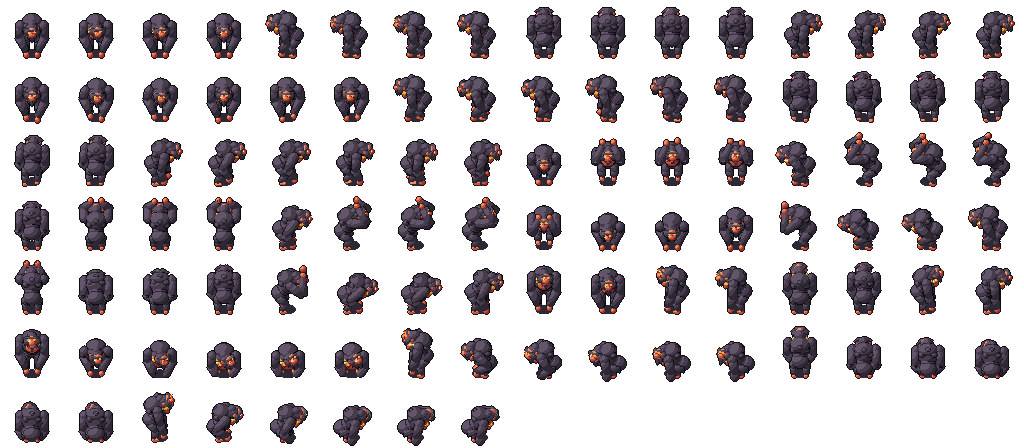
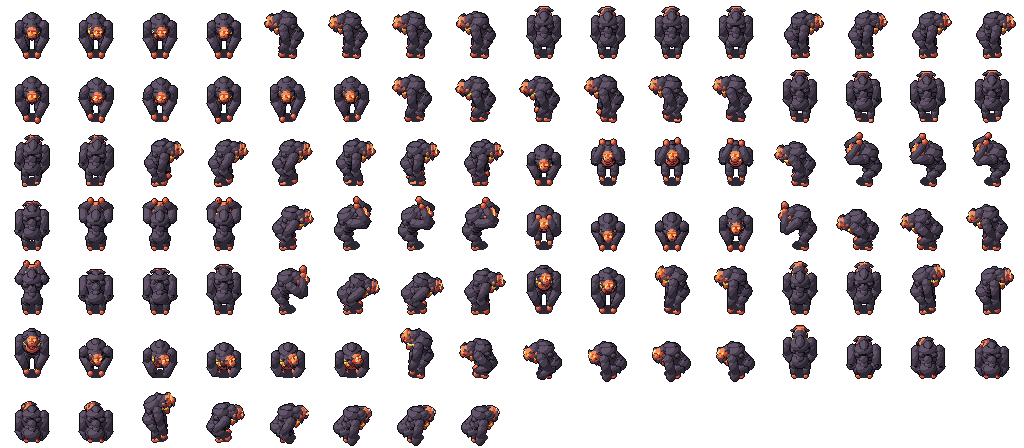
Toán tu tiên: Bạch Viên bản trắng - mặt da sẫm, tay chân trần, lông ba tông xám lạnh, vệt yên sẫm dọc lưng

diff --git a/art/src/monsters_d/bach_vien.py b/art/src/monsters_d/bach_vien.py
@@ -49,15 +49,26 @@ REST = rest_table(BONES)
 
 def build():
     use_collection("COL_bach_vien")
-    fur = material("MAT_bv_fur", (0.60, 0.58, 0.64), (0.27, 0.24, 0.30), ramp=("bone", "hair"))
+    # White fur in three clearly stepped tones: a cool grey shadow (bone #9894a2), the white
+    # (#cfcbd3) and a highlight only on the planes that face the key light. The tone bands
+    # are widened for the white look only (kit_shadow/kit_light_<variant>, see scene.py).
+    fur = material("MAT_bv_fur", (0.81, 0.80, 0.83), (0.27, 0.24, 0.30), ramp=("bone", "hair"))
     # the limbs carry their own (same-coloured) material so the kit draws an inner line
-    # where an arm crosses the body
-    limb = material("MAT_bv_fur_limb", (0.60, 0.58, 0.64), (0.27, 0.24, 0.30), ramp=("bone", "hair"))
-    fur_sh = material("MAT_bv_fur_shade", (0.62, 0.60, 0.66), (0.18, 0.16, 0.20), ramp=("bone", "hair"))
-    skin = material("MAT_bv_skin", (0.37, 0.39, 0.44), (0.58, 0.19, 0.16), ramp=("stone", "red"))
-    skin_lt = material("MAT_bv_skin_light", (0.53, 0.56, 0.60), (0.78, 0.33, 0.23), ramp=("stone", "red"))
+    # where an arm or a thigh crosses the body
+    limb = material("MAT_bv_fur_limb", (0.81, 0.80, 0.83), (0.27, 0.24, 0.30), ramp=("bone", "hair"))
+    for m in (fur, limb):
+        m["kit_shadow_base"] = 0.42
+        m["kit_light_base"] = 0.80
+    fur_sh = material("MAT_bv_fur_shade", (0.60, 0.58, 0.64), (0.18, 0.16, 0.20), ramp=("bone", "hair"))
+    saddle = material("MAT_bv_saddle", (0.35, 0.35, 0.40), (0.11, 0.10, 0.13), ramp=("bone", "hair"))
+    # bare dark grey-brown skin: face, brow ridge, chest, hands and feet
+    skin = material("MAT_bv_skin", (0.28, 0.22, 0.18), (0.58, 0.19, 0.16), ramp=("earth", "red"))
+    skin_lt = material("MAT_bv_skin_light", (0.42, 0.35, 0.28), (0.78, 0.33, 0.23), ramp=("earth", "red"))
+    for m in (skin, skin_lt):                 # the bare skin stays dark: hardly any light tone
+        m["kit_light_base"] = 0.95
     brow = material("MAT_bv_brow", (0.97, 0.96, 0.97), (0.40, 0.36, 0.43), ramp=("bone", "hair"))
     eye = material("MAT_bv_eye", (1.0, 0.89, 0.48), (1.0, 0.68, 0.23), emit=5.0, glow=("holy", "flame"))
+    eye["kit_halo"] = 0                       # a clean gold pixel, no smear over the dark face
     scar = material("MAT_bv_scar", (0.36, 0.10, 0.11), (0.93, 0.87, 0.70), ramp=("red", "paper"))
     mouth = material("MAT_bv_mouth", (0.11, 0.10, 0.13), (0.11, 0.10, 0.13), ramp="hair")
     bead = material("MAT_bv_bead", (0.34, 0.20, 0.13), (0.90, 0.72, 0.23), ramp=("wood", "gold"))
@@ -72,7 +83,12 @@ def build():
         ball("bv_hump", (0.17, 0.15, 0.10), (0, 0.0, 0.74), fur),
         ball("bv_pec", (0.115, 0.05, 0.10), (0, -0.20, 0.57), skin),
         *[ball(f"bv_shag{k}", (0.06, 0.06, 0.045), (x, 0.08, z), fur_sh, seg=8, rings=5)
-          for k, (x, z) in enumerate(((0.11, 0.68), (-0.11, 0.68), (0.0, 0.78)))])
+          for k, (x, z) in enumerate(((0.11, 0.68), (-0.11, 0.68)))],
+        # the darker grey saddle down the back: over the hump and down the slope
+        ball("bv_saddle1", (0.075, 0.12, 0.03), (0, 0.0, 0.835), saddle, rot=(-12, 0, 0), seg=12, rings=6),
+        ball("bv_saddle2", (0.07, 0.07, 0.03), (0, 0.10, 0.765), saddle, rot=(-50, 0, 0), seg=12, rings=6))
+    att(arm, "pelvis", ball("bv_saddle3", (0.07, 0.08, 0.03), (0, 0.13, 0.62), saddle, rot=(-55, 0, 0), seg=12, rings=6),
+        ball("bv_saddle4", (0.065, 0.06, 0.03), (0, 0.17, 0.535), saddle, rot=(-30, 0, 0), seg=12, rings=6))
     beads = []
     for k in range(11):
         a = math.tau * k / 11 - math.pi / 2
@@ -86,22 +102,23 @@ def build():
     att(arm, "head",
         ball("bv_skull", (0.11, 0.10, 0.10), (0, HY, HZ), fur),
         ball("bv_crest", (0.075, 0.08, 0.06), (0, HY + 0.04, HZ + 0.075), fur, seg=10, rings=6),
-        ball("bv_face", (0.09, 0.06, 0.085), (0, HY - 0.08, HZ - 0.01), skin, seg=12, rings=8),
-        ball("bv_muzzle", (0.065, 0.05, 0.048), (0, HY - 0.125, HZ - 0.055), skin_lt, seg=10, rings=6),
-        box("bv_brow", (0.16, 0.045, 0.032), (0, HY - 0.115, HZ + 0.04), brow, bevel=0.01),
-        aim("bv_browl", brow, (0.06, HY - 0.11, HZ + 0.045), (0.17, HY - 0.05, HZ + 0.02), 0.024, 0.0, seg=5),
-        aim("bv_browr", brow, (-0.06, HY - 0.11, HZ + 0.045), (-0.17, HY - 0.05, HZ + 0.02), 0.024, 0.0, seg=5),
-        ball("bv_eyel", (0.024, 0.012, 0.019), (0.037, HY - 0.125, HZ + 0.012), eye, seg=8, rings=5),
-        ball("bv_eyer", (0.024, 0.012, 0.019), (-0.037, HY - 0.125, HZ + 0.012), eye, seg=8, rings=5),
-        box("bv_scar", (0.013, 0.012, 0.09), (-0.04, HY - 0.13, HZ + 0.012), scar, rot=(0, 28, 0)),
-        box("bv_nostril", (0.036, 0.012, 0.01), (0, HY - 0.155, HZ - 0.04), mouth),
+        # a big bare face wrapping round the front of the head (it shows in profile too)
+        ball("bv_face", (0.10, 0.08, 0.095), (0, HY - 0.075, HZ - 0.01), skin, seg=14, rings=8),
+        ball("bv_muzzle", (0.07, 0.06, 0.05), (0, HY - 0.135, HZ - 0.06), skin_lt, seg=10, rings=6),
+        box("bv_brow", (0.17, 0.05, 0.04), (0, HY - 0.125, HZ + 0.045), skin, bevel=0.012),
+        aim("bv_browl", brow, (0.07, HY - 0.11, HZ + 0.06), (0.17, HY - 0.05, HZ + 0.04), 0.02, 0.0, seg=5),
+        aim("bv_browr", brow, (-0.07, HY - 0.11, HZ + 0.06), (-0.17, HY - 0.05, HZ + 0.04), 0.02, 0.0, seg=5),
+        ball("bv_eyel", (0.027, 0.016, 0.022), (0.045, HY - 0.145, HZ + 0.012), eye, seg=8, rings=5),
+        ball("bv_eyer", (0.027, 0.016, 0.022), (-0.045, HY - 0.145, HZ + 0.012), eye, seg=8, rings=5),
+        box("bv_scar", (0.013, 0.012, 0.09), (-0.047, HY - 0.155, HZ + 0.012), scar, rot=(0, 28, 0)),
+        box("bv_nostril", (0.036, 0.012, 0.01), (0, HY - 0.19, HZ - 0.045), mouth),
         ball("bv_earl", (0.025, 0.03, 0.035), (0.11, HY, HZ), skin, seg=8, rings=5),
         ball("bv_earr", (0.025, 0.03, 0.035), (-0.11, HY, HZ), skin, seg=8, rings=5),
-        ball("bv_cheekl", (0.05, 0.05, 0.06), (0.09, HY - 0.05, HZ - 0.04), brow, seg=8, rings=5),
-        ball("bv_cheekr", (0.05, 0.05, 0.06), (-0.09, HY - 0.05, HZ - 0.04), brow, seg=8, rings=5))
+        ball("bv_cheekl", (0.04, 0.04, 0.05), (0.095, HY - 0.01, HZ - 0.045), brow, seg=8, rings=5),
+        ball("bv_cheekr", (0.04, 0.04, 0.05), (-0.095, HY - 0.01, HZ - 0.045), brow, seg=8, rings=5))
     att(arm, "jaw", ball("bv_jaw", (0.055, 0.045, 0.03), (0, HY - 0.095, HZ - 0.09), skin, seg=10, rings=6),
-        box("bv_mouth", (0.065, 0.012, 0.012), (0, HY - 0.15, HZ - 0.08), mouth),
-        aim("bv_beard", brow, (0, HY - 0.10, HZ - 0.10), (0, HY - 0.12, HZ - 0.22), 0.05, 0.0, seg=8),
+        box("bv_mouth", (0.065, 0.012, 0.012), (0, HY - 0.17, HZ - 0.085), mouth),
+        aim("bv_beard", brow, (0, HY - 0.09, HZ - 0.10), (0, HY - 0.10, HZ - 0.19), 0.045, 0.0, seg=8),
         aim("bv_beardl", brow, (0.04, HY - 0.08, HZ - 0.09), (0.06, HY - 0.08, HZ - 0.18), 0.032, 0.0, seg=6),
         aim("bv_beardr", brow, (-0.04, HY - 0.08, HZ - 0.09), (-0.06, HY - 0.08, HZ - 0.18), 0.032, 0.0, seg=6))
 

diff --git a/art/src/monsters_d/scene.py b/art/src/monsters_d/scene.py
@@ -106,6 +106,12 @@ def main():
     hook = on_frame if any(k.startswith("shift_") for k in arm.keys()) else None
     for variant, out_id, label in (("base", a.id, name_vi), ("di", f"{a.id}_di", f"{name_vi} Dị Chủng")):
         rig.apply_variant(variant)
+        for m in bpy.data.materials:          # tone bands that differ per look
+            for key in ("kit_shadow", "kit_light"):
+                if f"{key}_{variant}" in m:
+                    m[key] = m[f"{key}_{variant}"]
+                elif (f"{key}_base" in m or f"{key}_di" in m) and key in m:
+                    del m[key]
         kit.render_animated(arm, out_id, clips, OUT, name_vi=label, kind=KIND[frame],
                             holdout=hold or None, on_frame=hook)
     arm.location = (0, 0, 0)

diff --git a/art/src/monsters_d/README.md b/art/src/monsters_d/README.md
@@ -149,9 +149,17 @@ radius ~1.5 tiles (the slam's shockwave); a near circle around itself is also fa
   top of the frame; walk failed the feet-drift rule. -> fur based one tone darker (so the
   light tone only lands on lit planes), lower overhead fists, a bent-arm swing frame, the
   contact shadow, die slump pulled back into the frame.
-- Still weak: at 1× the white base still reads as a soft white mass, its face is a few
-  pixels with one gold eye from the side (the dị chủng reads better); die is a slump onto the
-  haunches rather than a full topple (a full fall runs out of the frame).
+- Round 4 (lead review: the white look was "a snowman of balls" with almost no face):
+  fur rebased on the white with widened tone bands for the white look only (cool grey
+  #9894a2 shadow / white / highlight, `kit_shadow_base` 0.42, `kit_light_base` 0.80,
+  applied per look in scene.py), a bare dark grey-brown face wrapping round the head (brow
+  ridge, muzzle, mouth; it shows in profile), gold eyes without a glow halo (two from the
+  front, one in profile), dark bare hands and feet, a darker grey saddle down the hump and
+  back, smaller white cheek tufts and beard so the face is the front of the head. The
+  skeleton and clips are unchanged; the dị chủng look is unchanged apart from the new face
+  and saddle shapes.
+- Still weak: die is a slump onto the haunches rather than a full topple (a full fall runs
+  out of the frame); the saddle is subtle except from behind.
 
 ### Cơ Quan Thú (`co_quan_thu`, normal 48), Thiên Công Phường
 A clockwork hound, sibling of Cơ Quan Nhân (same woods, bronze, gold gear and lantern
